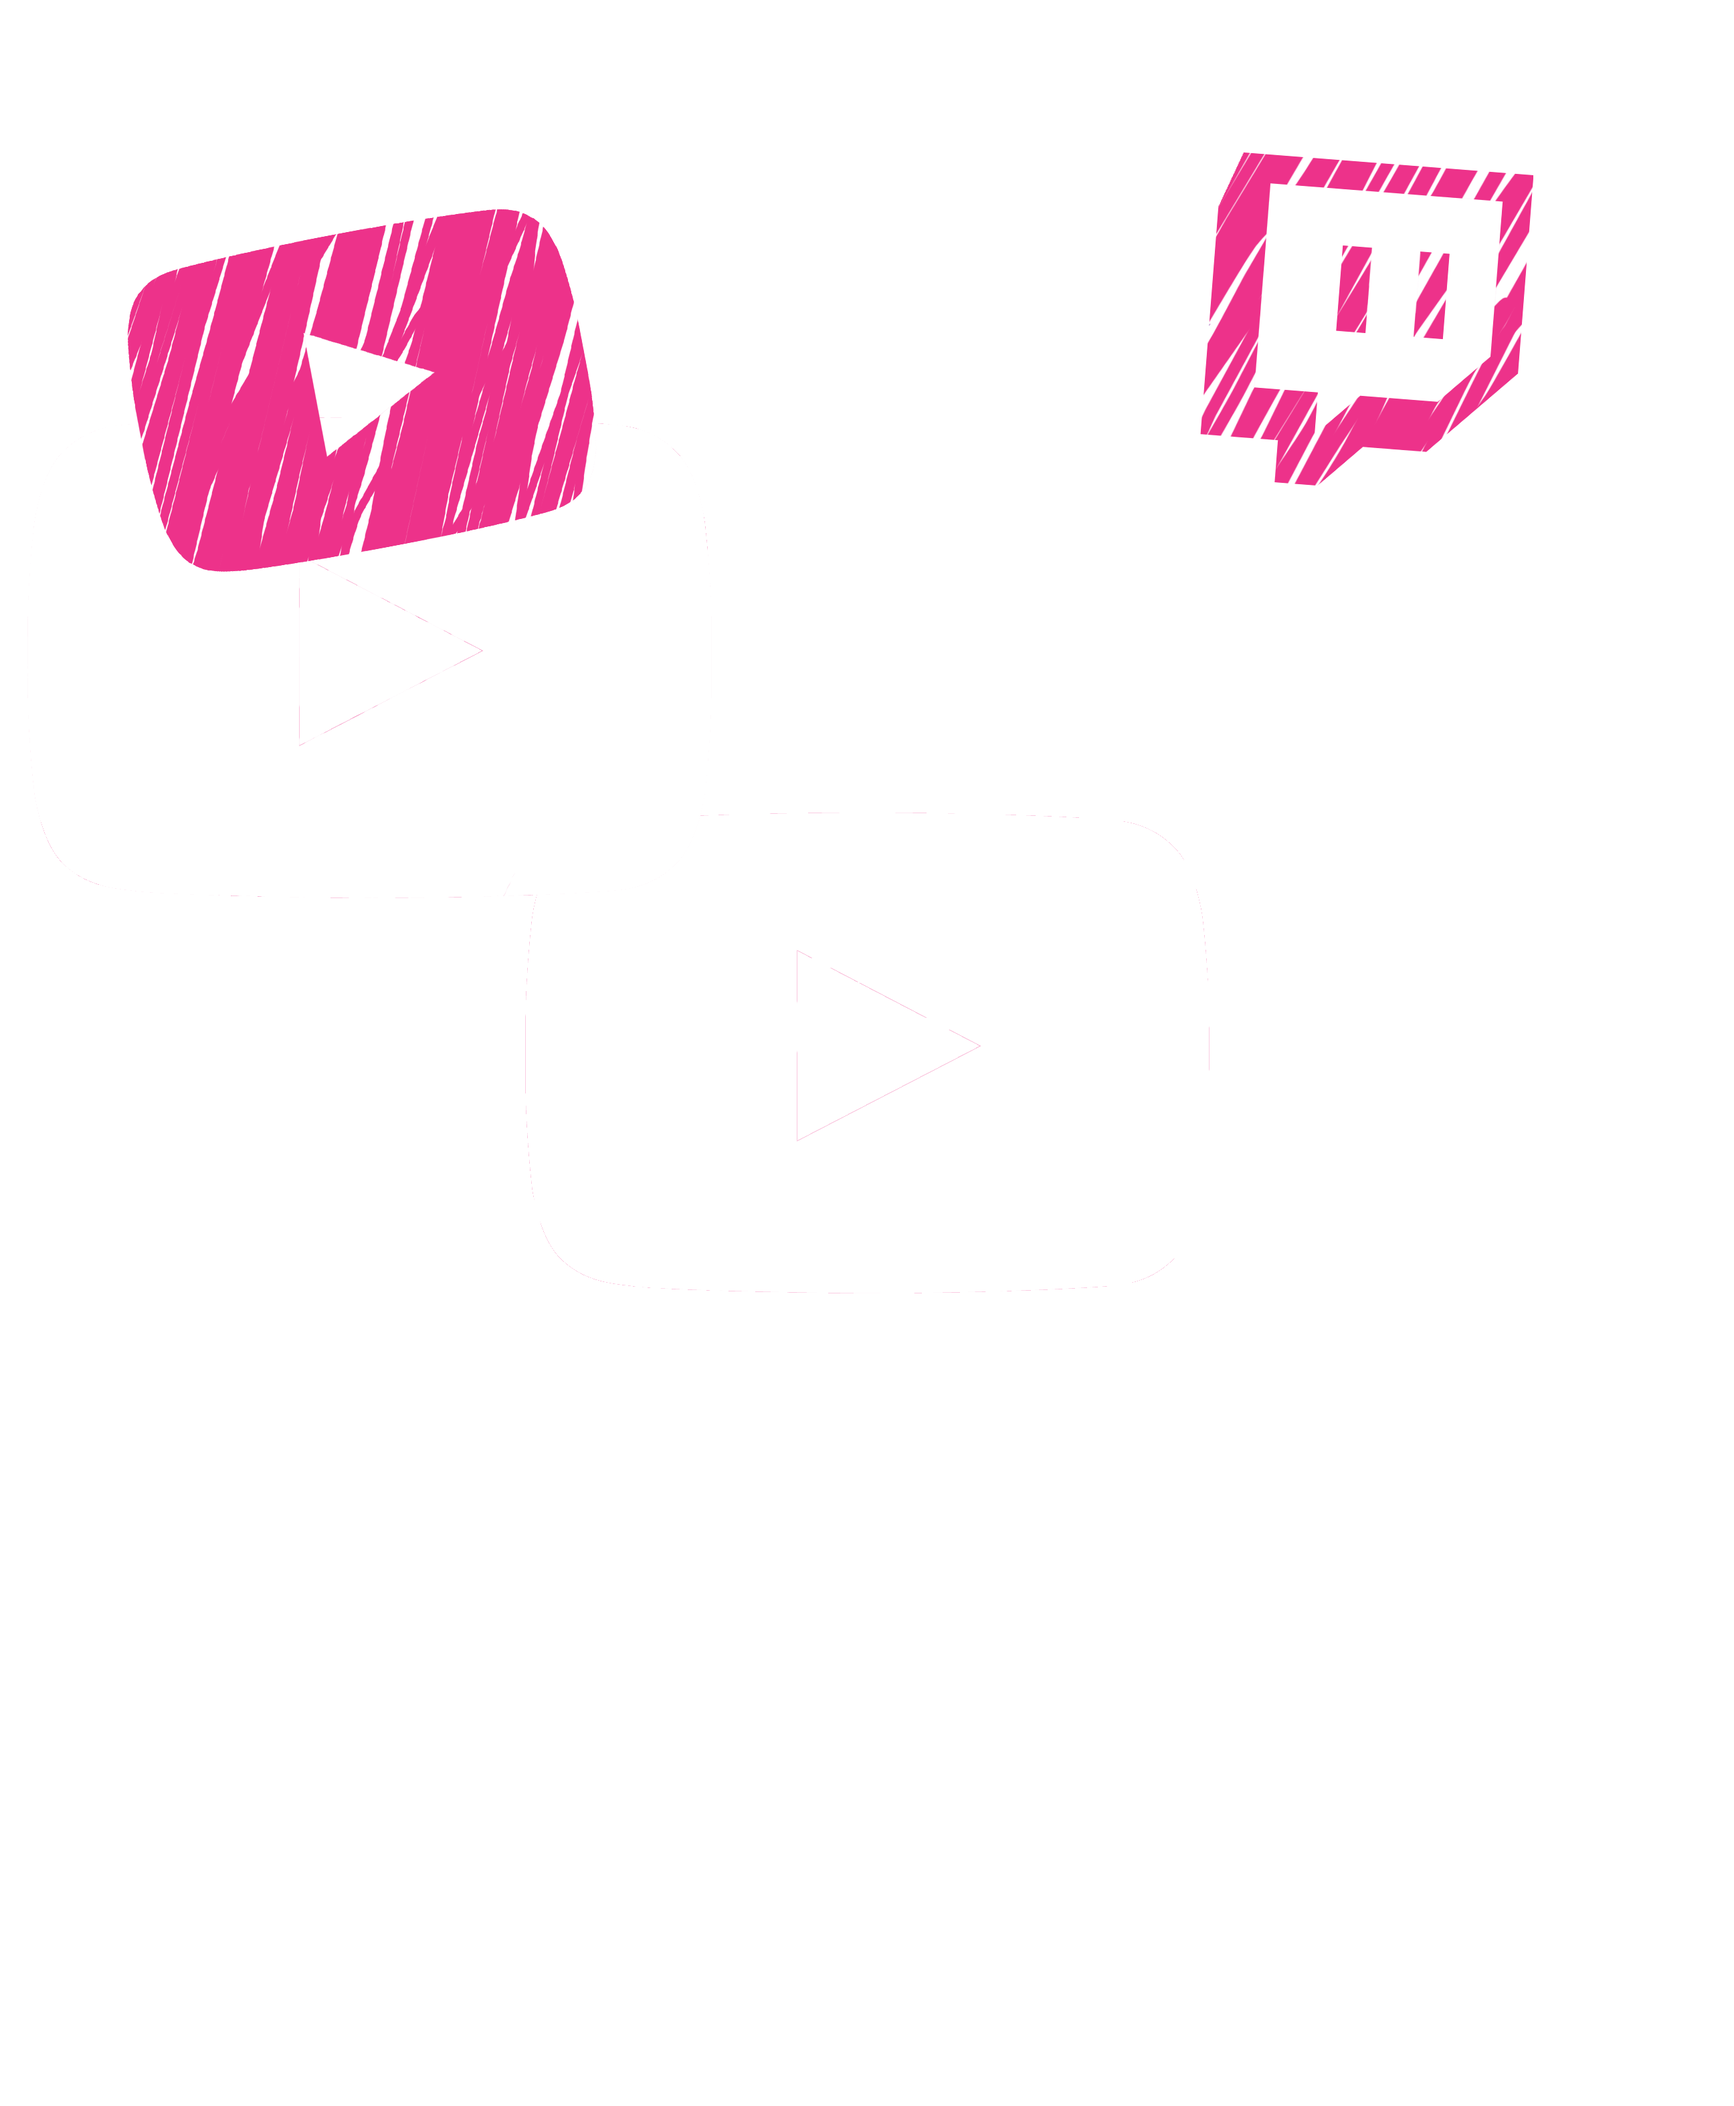
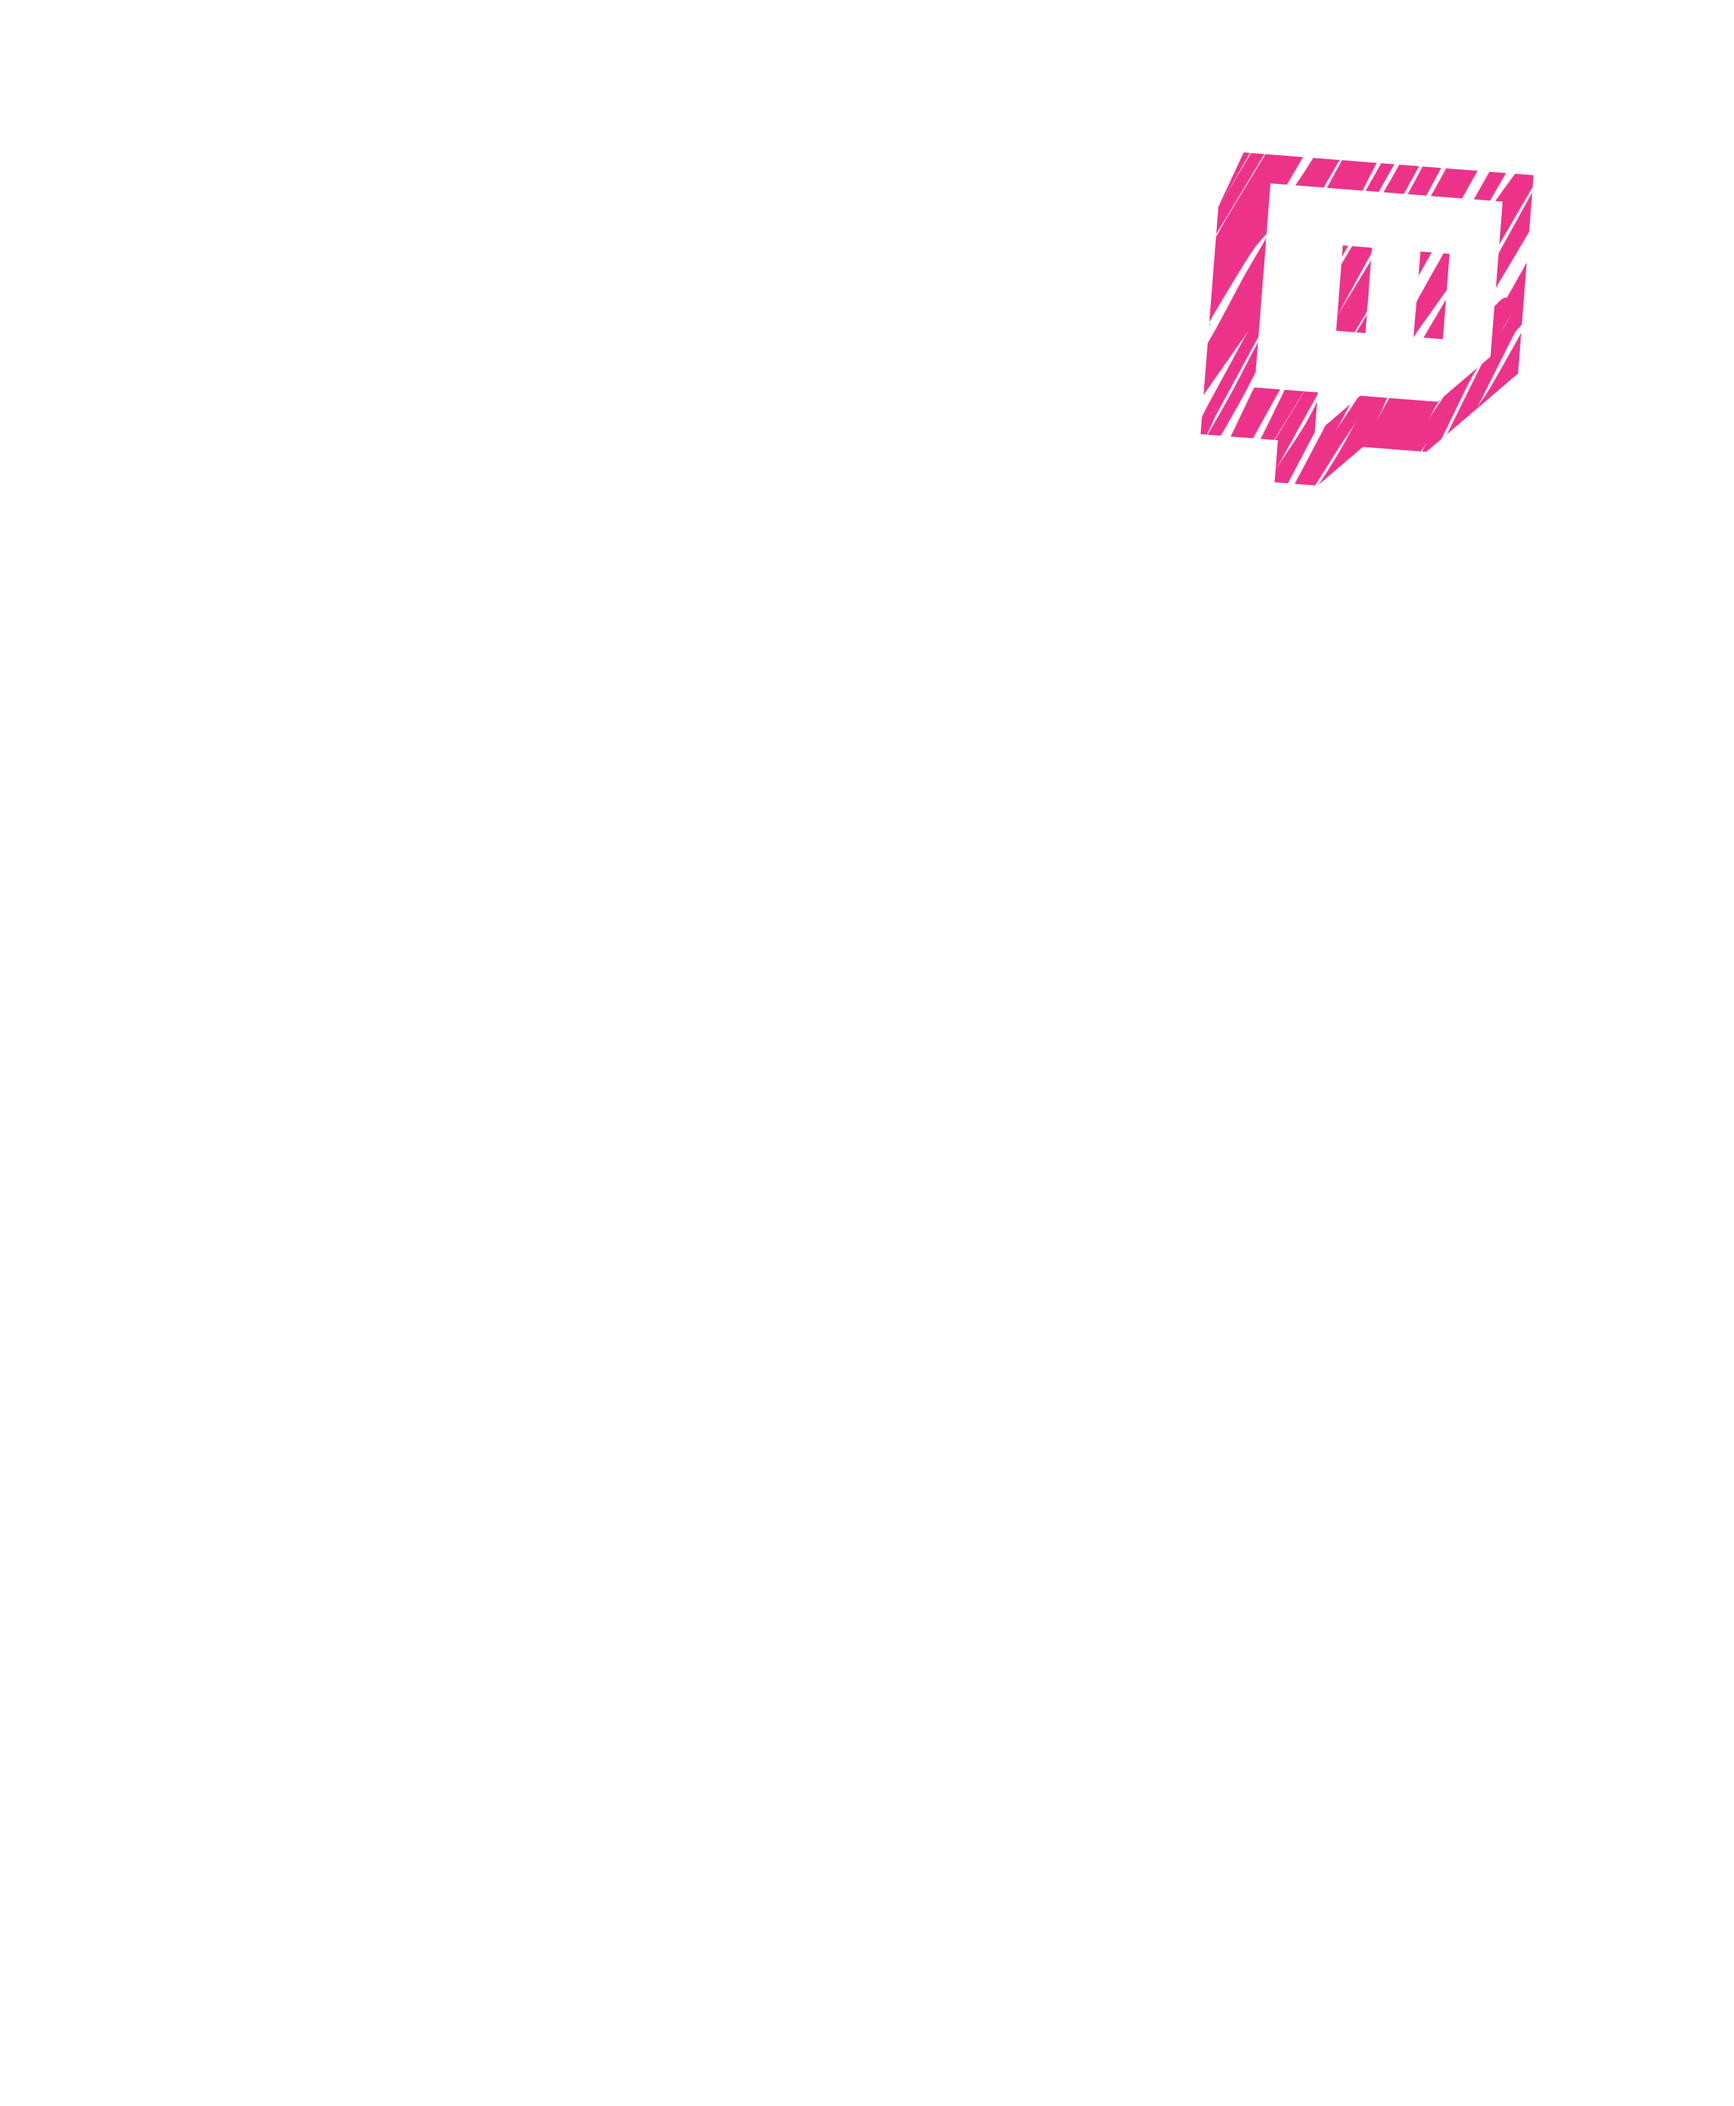
remove KS links and remove name from newsletter

Changed region(s): [[0.0625, 0.0934, 0.3438, 0.2801]]

diff --git a/comic/index.html b/comic/index.html
@@ -32,9 +32,9 @@ description: What if only the rich had super powers?
 				<div class="col-md-offset-2 col-md-8">
 					<img id="comic-logline" src="/images/comic/logline.png" width="auto" height="auto">
 
-					<a href="https://www.kickstarter.com/projects/624640087/more-than-men-a-comic-where-only-the-rich-have-sup?ref=ey9nof" target="_blank">
-						<img src="/images/comic/ks.png" width="auto" height="auto">
-					</a>
+					<!--<a href="https://www.kickstarter.com/projects/624640087/more-than-men-a-comic-where-only-the-rich-have-sup?ref=ey9nof" target="_blank">-->
+						<!--<img src="/images/comic/ks.png" width="auto" height="auto">-->
+					<!--</a>-->
 				</div>
 			</div>
 
@@ -106,9 +106,9 @@ description: What if only the rich had super powers?
 					<img id="comic-know-more" src="/images/comic/banner.jpg" width="100%" height="auto">
 
 					<!-- Kickstarter button -->
-					<a href="https://www.kickstarter.com/projects/624640087/more-than-men-a-comic-where-only-the-rich-have-sup?ref=ey9nof" target="_blank">
-						<img src="/images/comic/ks.png" width="auto" height="auto">
-					</a>
+					<!--<a href="https://www.kickstarter.com/projects/624640087/more-than-men-a-comic-where-only-the-rich-have-sup?ref=ey9nof" target="_blank">-->
+						<!--<img src="/images/comic/ks.png" width="auto" height="auto">-->
+					<!--</a>-->
 
 					{% include newsletter.html %}
 				</div>

diff --git a/_includes/newsletter.html b/_includes/newsletter.html
@@ -9,10 +9,6 @@
 				</label>
 				<input type="email" value="" name="EMAIL" class="required email" id="mce-EMAIL">
 			</div>
-			<div class="mc-field-group">
-				<label for="mce-FNAME">First Name </label>
-				<input type="text" value="" name="FNAME" class="" id="mce-FNAME">
-			</div>
 			<div id="mce-responses" class="clear">
 				<div class="response" id="mce-error-response" style="display:none"></div>
 				<div class="response" id="mce-success-response" style="display:none"></div>

diff --git a/index.html b/index.html
@@ -38,6 +38,7 @@ layout: default
 						<img class="homepage-doodle" id="comic-doodle" src="/images/home/comic.png">
 						<img class="homepage-doodle" id="guide-doodle" src="/images/home/guide.png">
 						<img class="homepage-doodle" id="twitch-doodle" src="/images/home/twitch.png">
+						<img class="homepage-doodle" id="youtube-doodle" src="/images/home/youtube.png">
 					</div>
 				</div>
 			</div>

diff --git a/_posts/Ch6/0006-04-01-font-websites.md b/_posts/Ch6/0006-04-01-font-websites.md
@@ -8,10 +8,18 @@ Here’s a list of sites where you can get digital fonts from. Make sure to chec
 
 [Blambot](http://www.blambot.com/fonts_index.shtml) - Tons of fonts for dialogue and SFX, all designed for comics. This is where I got my fonts for More Than Men.
 
-[1001 Fonts](http://www.1001fonts.com/) - A LOT of fonts (hence the name) though there isn’t a filter for comic specific ones.
-
-[Font Squirrel](https://www.fontsquirrel.com/fonts/list/classification/comic) - Mostly general fonts though they have decent collection of comic specific fonts.
-
 [Comicraft](http://www.comicbookfonts.com/) - Lots of comic specific fonts. They’re not cheap but a lot of them look pretty good.
 
 [Calligraphr](https://www.calligraphr.com/) - Turn your handwriting into a font!
+
+[1001 Fonts](http://www.1001fonts.com/)
+
+[Font Squirrel](https://www.fontsquirrel.com/fonts/list/classification/comic)
+
+[Fontspring](https://www.fontspring.com/tag/comic)
+
+[Creative Market](https://creativemarket.com/fonts/)
+
+[HYPEFORTYPE](https://www.hypefortype.com/)
+
+[My Fonts](https://www.myfonts.com/fonts/)
